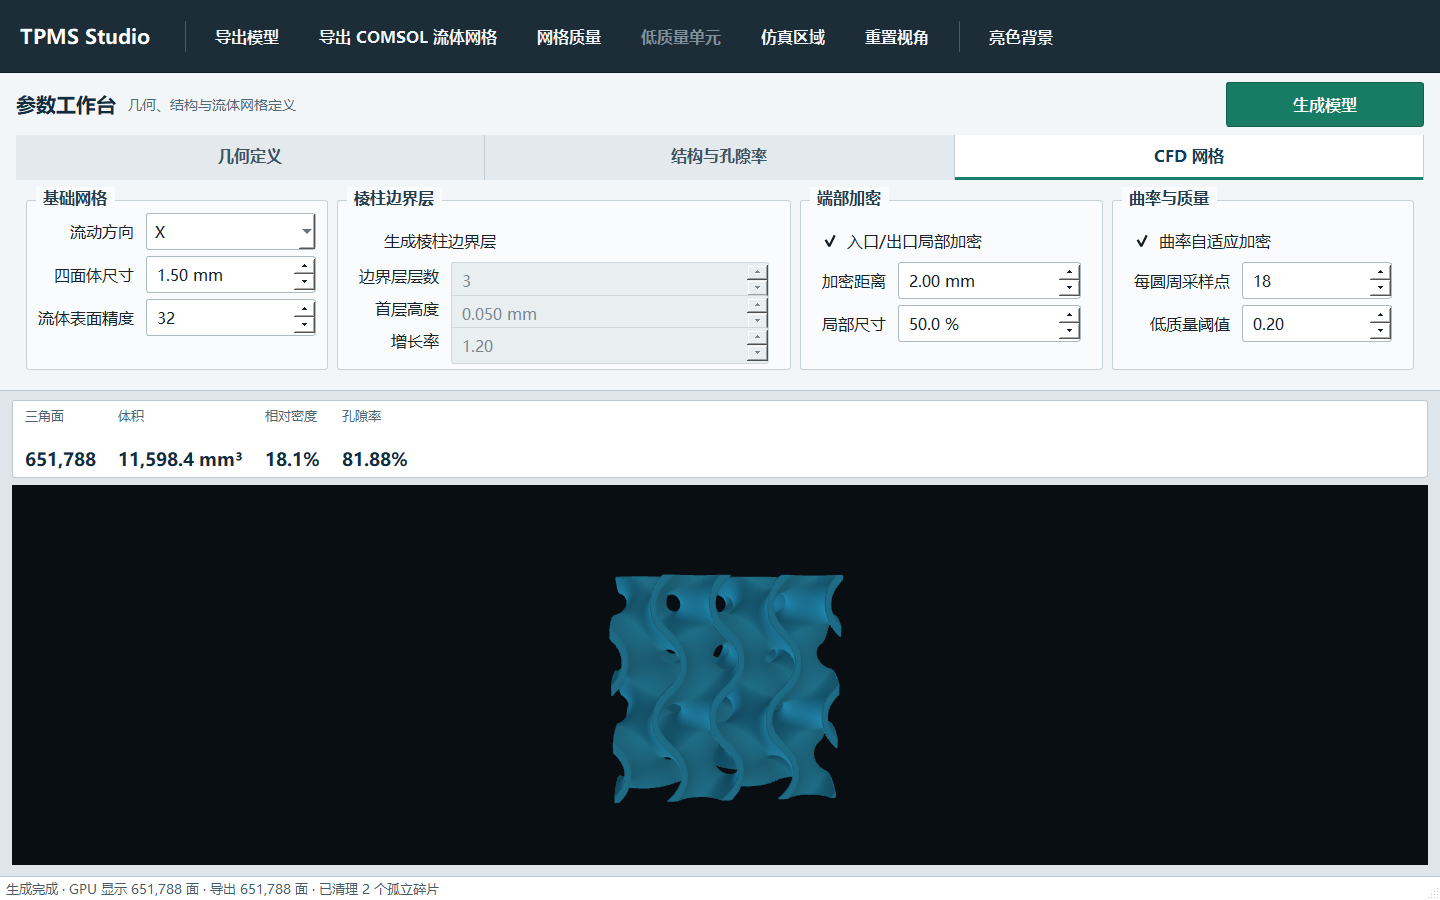
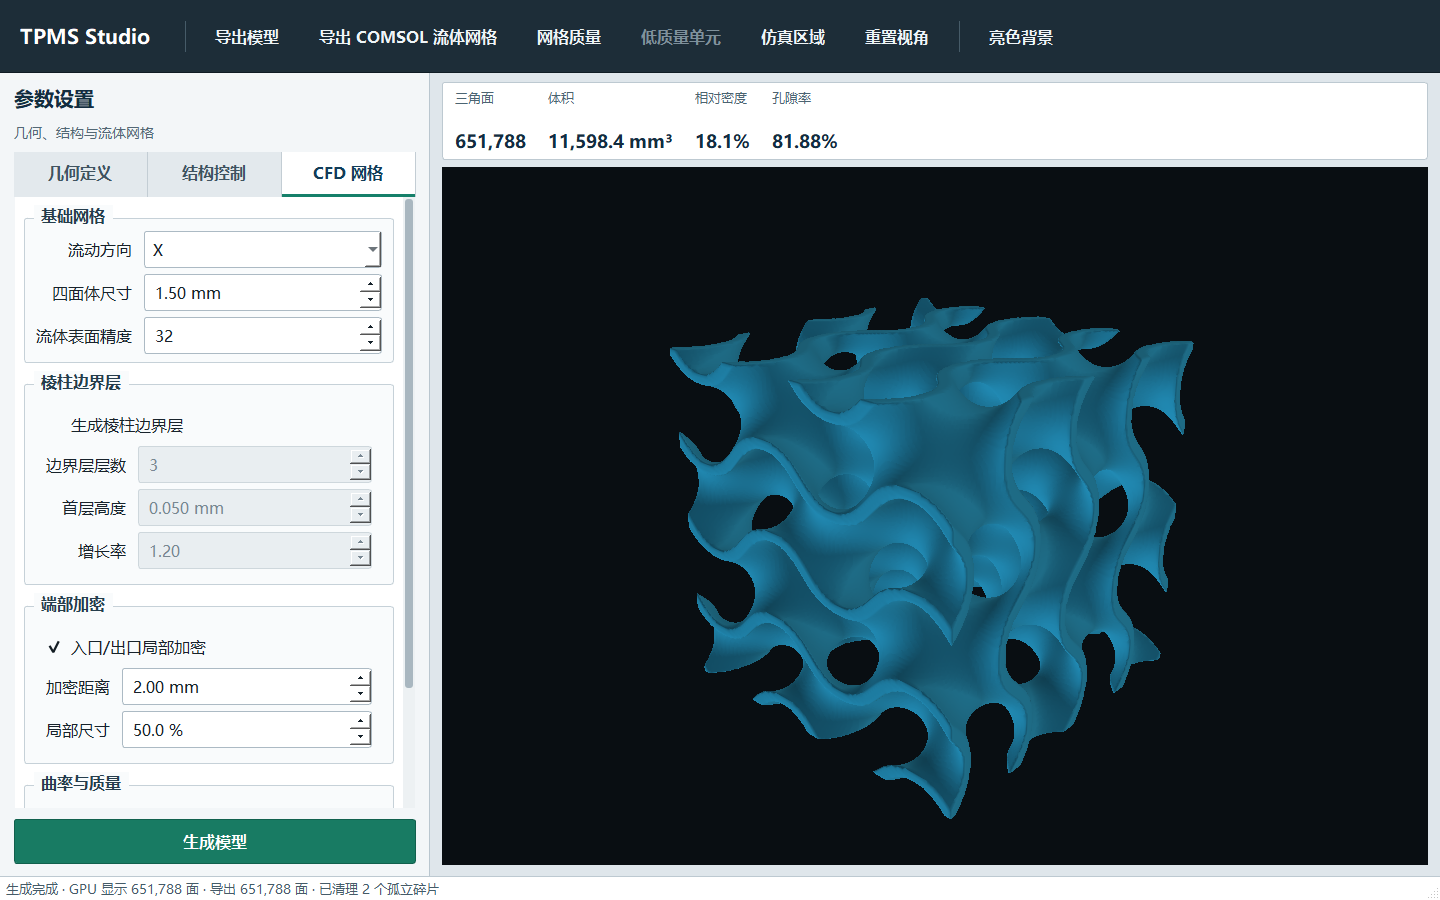
把参数界面放回了左边

diff --git a/app.py b/app.py
@@ -41,8 +41,10 @@ from PyQt5.QtWidgets import (
     QOpenGLWidget,
     QPushButton,
     QRadioButton,
+    QScrollArea,
     QSizePolicy,
     QSpinBox,
+    QSplitter,
     QStatusBar,
     QTabWidget,
     QToolBar,
@@ -109,35 +111,55 @@ QToolButton:checked { background: #e9f1f5; color: #153e59; border-color: #b6c8d3
 QToolButton:disabled { color: #7f919c; }
 QWidget#parameterDeck {
     background: #f3f6f8;
-    border-bottom: 1px solid #b9c6cf;
+    border-right: 1px solid #b9c6cf;
 }
 QLabel#panelTitle { color: #132d40; font-size: 20px; font-weight: 700; }
 QLabel#panelSubtitle { color: #536875; font-size: 14px; }
 QLabel#sectionTitle { color: #253d4c; font-size: 16px; font-weight: 700; }
+QScrollArea#parameterScroll {
+    background: #ffffff;
+    border: none;
+}
+QWidget#parameterPage { background: #ffffff; }
 QTabWidget#parameterTabs::pane {
     background: #ffffff;
     border: 1px solid #b9c6cf;
     top: -1px;
 }
-QTabBar::tab {
+QTabWidget#parameterTabs QTabBar::tab {
     background: #e3e9ed;
     color: #3f5360;
     border: none;
     border-right: 1px solid #c3cdd4;
     border-bottom: 3px solid transparent;
-    min-width: 150px;
+    min-width: 92px;
     min-height: 38px;
-    padding: 2px 18px;
+    padding: 2px 10px;
     font-size: 16px;
     font-weight: 600;
 }
-QTabBar::tab:selected {
+QTabWidget#parameterTabs QTabBar::tab:selected {
     background: #ffffff;
     color: #123d59;
     border-bottom: 3px solid #16806a;
     font-weight: 700;
 }
-QTabBar::tab:hover:!selected { background: #eef2f4; color: #203d50; }
+QTabWidget#parameterTabs QTabBar::tab:hover:!selected { background: #eef2f4; color: #203d50; }
+QScrollBar:vertical {
+    background: #edf1f3;
+    width: 12px;
+    margin: 0;
+}
+QScrollBar::handle:vertical {
+    background: #a9b7c0;
+    min-height: 36px;
+    border-radius: 3px;
+    margin: 2px;
+}
+QScrollBar::handle:vertical:hover { background: #8295a1; }
+QScrollBar::add-line:vertical, QScrollBar::sub-line:vertical { height: 0; }
+QScrollBar::add-page:vertical, QScrollBar::sub-page:vertical { background: transparent; }
+QSplitter::handle { background: #b9c6cf; width: 1px; }
 QGroupBox {
     background: #f9fbfc;
     border: 1px solid #c6d1d8;
@@ -212,6 +234,7 @@ QPushButton#generateButton {
 QPushButton#generateButton:hover { background: #126750; }
 QPushButton#generateButton:pressed { background: #0c503e; }
 QPushButton#generateButton:disabled { background: #aab6b1; color: #f3f5f4; border-color: #9da8a4; }
+QWidget#parameterDeck QPushButton#generateButton { min-width: 0; }
 QStatusBar { background: #ffffff; border-top: 1px solid #bdc9d1; color: #455b68; font-size: 13px; }
 """
 
@@ -760,6 +783,18 @@ class MainWindow(QMainWindow):
             grid.addWidget(field, 1, column)
         return grid
 
+    @staticmethod
+    def _scroll_page(content: QWidget) -> QScrollArea:
+        content.setObjectName("parameterPage")
+        scroll = QScrollArea()
+        scroll.setObjectName("parameterScroll")
+        scroll.setWidgetResizable(True)
+        scroll.setHorizontalScrollBarPolicy(Qt.ScrollBarAlwaysOff)
+        scroll.setVerticalScrollBarPolicy(Qt.ScrollBarAsNeeded)
+        scroll.setFrameShape(QFrame.NoFrame)
+        scroll.setWidget(content)
+        return scroll
+
     def _build_ui(self) -> None:
         central = QWidget()
         central.setObjectName("centralRoot")
@@ -768,48 +803,37 @@ class MainWindow(QMainWindow):
         root.setSpacing(0)
         self.setCentralWidget(central)
 
+        splitter = QSplitter(Qt.Horizontal)
+        splitter.setChildrenCollapsible(False)
+        root.addWidget(splitter, 1)
+
         parameter_deck = QWidget()
         parameter_deck.setObjectName("parameterDeck")
+        parameter_deck.setMinimumWidth(400)
+        parameter_deck.setMaximumWidth(540)
         deck_layout = QVBoxLayout(parameter_deck)
-        deck_layout.setContentsMargins(16, 9, 16, 12)
-        deck_layout.setSpacing(8)
+        deck_layout.setContentsMargins(14, 12, 14, 12)
+        deck_layout.setSpacing(10)
 
-        header = QHBoxLayout()
-        header.setSpacing(12)
-        heading = QHBoxLayout()
-        heading.setSpacing(12)
-        title = QLabel("参数工作台")
+        title = QLabel("参数设置")
         title.setObjectName("panelTitle")
-        subtitle = QLabel("几何、结构与流体网格定义")
+        subtitle = QLabel("几何、结构与流体网格")
         subtitle.setObjectName("panelSubtitle")
-        heading.addWidget(title, 0, Qt.AlignVCenter)
-        heading.addWidget(subtitle, 0, Qt.AlignVCenter)
-        header.addLayout(heading)
-        header.addStretch(1)
-        self.generate_button = QPushButton("生成模型")
-        self.generate_button.setObjectName("generateButton")
-        self.generate_button.setShortcut("Ctrl+Return")
-        self.generate_button.setToolTip("使用当前参数重新生成 TPMS 模型")
-        self.generate_button.setAccessibleName("生成 TPMS 模型")
-        self.generate_button.clicked.connect(self.generate)
-        header.addWidget(self.generate_button, 0, Qt.AlignVCenter)
-        deck_layout.addLayout(header)
+        deck_layout.addWidget(title)
+        deck_layout.addWidget(subtitle)
 
         self.parameter_tabs = QTabWidget()
         self.parameter_tabs.setObjectName("parameterTabs")
         self.parameter_tabs.setDocumentMode(True)
         self.parameter_tabs.tabBar().setExpanding(True)
-        self.parameter_tabs.setMinimumHeight(232)
-        self.parameter_tabs.setMaximumHeight(244)
-        self.parameter_tabs.setSizePolicy(QSizePolicy.Expanding, QSizePolicy.Fixed)
+        self.parameter_tabs.setSizePolicy(QSizePolicy.Expanding, QSizePolicy.Expanding)
 
         geometry_tab = QWidget()
-        geometry_layout = QHBoxLayout(geometry_tab)
-        geometry_layout.setContentsMargins(9, 7, 9, 8)
-        geometry_layout.setSpacing(9)
+        geometry_layout = QVBoxLayout(geometry_tab)
+        geometry_layout.setContentsMargins(9, 8, 9, 10)
+        geometry_layout.setSpacing(8)
 
         surface_group = QGroupBox("曲面与结构模式")
-        surface_group.setMinimumWidth(350)
         surface_form = self._form_layout()
         self.surface_combo = QComboBox()
         for surface_name in ("Gyroid", "Diamond", "Primitive", "I-WP", "Neovius"):
@@ -855,15 +879,16 @@ class MainWindow(QMainWindow):
             field.setAccessibleName(f"{axis} 方向周期数量")
         self.cell_group.setLayout(self._axis_grid(self.cell_fields))
 
-        geometry_layout.addWidget(surface_group, 4)
-        geometry_layout.addWidget(size_group, 3)
-        geometry_layout.addWidget(self.cell_group, 3)
-        self.parameter_tabs.addTab(geometry_tab, "几何定义")
+        geometry_layout.addWidget(surface_group)
+        geometry_layout.addWidget(size_group)
+        geometry_layout.addWidget(self.cell_group)
+        geometry_layout.addStretch(1)
+        self.parameter_tabs.addTab(self._scroll_page(geometry_tab), "几何定义")
 
         structure_tab = QWidget()
-        structure_layout = QHBoxLayout(structure_tab)
-        structure_layout.setContentsMargins(9, 7, 9, 8)
-        structure_layout.setSpacing(9)
+        structure_layout = QVBoxLayout(structure_tab)
+        structure_layout.setContentsMargins(9, 8, 9, 10)
+        structure_layout.setSpacing(8)
 
         structure_group = QGroupBox("结构参数")
         structure_form = self._form_layout()
@@ -898,14 +923,15 @@ class MainWindow(QMainWindow):
         porosity_layout.addLayout(porosity_form)
         porosity_layout.addStretch(1)
 
-        structure_layout.addWidget(structure_group, 2)
-        structure_layout.addWidget(porosity_group, 2)
-        self.parameter_tabs.addTab(structure_tab, "结构与孔隙率")
+        structure_layout.addWidget(structure_group)
+        structure_layout.addWidget(porosity_group)
+        structure_layout.addStretch(1)
+        self.parameter_tabs.addTab(self._scroll_page(structure_tab), "结构控制")
 
         cfd_tab = QWidget()
-        cfd_layout = QHBoxLayout(cfd_tab)
-        cfd_layout.setContentsMargins(9, 7, 9, 8)
-        cfd_layout.setSpacing(9)
+        cfd_layout = QVBoxLayout(cfd_tab)
+        cfd_layout.setContentsMargins(9, 8, 9, 10)
+        cfd_layout.setSpacing(8)
 
         cfd_base_group = QGroupBox("基础网格")
         cfd_form = self._form_layout()
@@ -988,13 +1014,22 @@ class MainWindow(QMainWindow):
         quality_layout.addLayout(quality_form)
         quality_layout.addStretch(1)
 
-        cfd_layout.addWidget(cfd_base_group, 2)
-        cfd_layout.addWidget(boundary_group, 3)
-        cfd_layout.addWidget(refinement_group, 2)
-        cfd_layout.addWidget(quality_group, 2)
-        self.parameter_tabs.addTab(cfd_tab, "CFD 网格")
-        deck_layout.addWidget(self.parameter_tabs)
-        root.addWidget(parameter_deck, 0)
+        cfd_layout.addWidget(cfd_base_group)
+        cfd_layout.addWidget(boundary_group)
+        cfd_layout.addWidget(refinement_group)
+        cfd_layout.addWidget(quality_group)
+        cfd_layout.addStretch(1)
+        self.parameter_tabs.addTab(self._scroll_page(cfd_tab), "CFD 网格")
+        deck_layout.addWidget(self.parameter_tabs, 1)
+
+        self.generate_button = QPushButton("生成模型")
+        self.generate_button.setObjectName("generateButton")
+        self.generate_button.setShortcut("Ctrl+Return")
+        self.generate_button.setToolTip("使用当前参数重新生成 TPMS 模型")
+        self.generate_button.setAccessibleName("生成 TPMS 模型")
+        self.generate_button.clicked.connect(self.generate)
+        deck_layout.addWidget(self.generate_button)
+        splitter.addWidget(parameter_deck)
 
         workspace = QWidget()
         workspace.setObjectName("workspace")
@@ -1021,7 +1056,10 @@ class MainWindow(QMainWindow):
         self.viewport = OpenGLMeshView()
         self.viewport.error.connect(self._viewport_error)
         workspace_layout.addWidget(self.viewport, 1)
-        root.addWidget(workspace, 1)
+        splitter.addWidget(workspace)
+        splitter.setStretchFactor(0, 0)
+        splitter.setStretchFactor(1, 1)
+        splitter.setSizes([430, 1010])
         self._update_mode_fields()
         self._update_formula_fields()
         self._update_cfd_fields()

diff --git a/DEVELOPMENT_LOG.md b/DEVELOPMENT_LOG.md
@@ -80,6 +80,7 @@ TPMS Studio 是本地运行的 TPMS 参数化建模工具。用户在 GUI 中输
 | R-031 | 使用 ui-ux-pro-max 重做参数界面 | 参数控制从左侧移到顶部，按几何定义、结构与孔隙率、CFD 网格分组；生成按钮固定右上，统计条和 OpenGL 视口改为全宽；更新当前界面截图 | 已完成 |
 | R-032 | 顶部区域字体太小 | 顶部工作区基础字号由 12 px 提升到 14 px，并同步放大工具栏、页签、分组标题、输入控件、主按钮和统计信息 | 已完成 |
 | R-033 | 顶部界面仍显小且不好看 | 使用 16 px 字号体系重做顶部视觉层级；采用高对比工具栏、全宽任务页签、紧凑对齐的参数组和更明确的主操作按钮 | 已完成 |
+| R-034 | 将参数修改界面从顶部改回左侧 | 使用可调宽度左右分割布局；几何、结构和 CFD 参数在左栏分页并独立滚动，生成按钮固定底部，右侧保留统计与 OpenGL 视口 | 已完成 |
 
 ## 4. 关键更新详情
 
@@ -144,6 +145,13 @@ TPMS Studio 是本地运行的 TPMS 参数化建模工具。用户在 GUI 中输
 - 输入控件补充清晰的焦点、悬停、按下和禁用状态；自定义公式模式继续自动隐藏不适用的周期数量参数。
 - 在 `1440×900` 默认窗口和 `1120×720` 最小窗口下完成原生 Qt 布局检查，几何与 CFD 参数组均无重叠或文字截断。
 
+### 4.9 左侧参数栏布局
+
+- 根据使用反馈将参数控制从顶部工作台移回左侧，使用 `QSplitter` 允许在 400–540 px 范围内调整参数栏宽度。
+- 左栏保留“几何定义”“结构控制”“CFD 网格”三个任务页签，每个页签使用独立 `QScrollArea`，避免整窗滚动影响模型观察。
+- “生成模型”固定在参数栏底部；CFD 参数滚动时主操作仍然可见。
+- 右侧继续显示模型统计条和 OpenGL 视口，建模、孔隙率、CFD 导出与诊断逻辑未改变。
+
 ## 5. 验证记录
 
 ### 2026-09-17
@@ -162,6 +170,12 @@ TPMS Studio 是本地运行的 TPMS 参数化建模工具。用户在 GUI 中输
 - BDF 回读：包含 `CTRIA3` 和 `CTETRA`，属性号与 MSH 一致。
 - 棱柱边界层实际导出：通过，BDF 回读同时包含 `CPENTA` 和 `CTETRA`。
 - 质量 VTU 回读：通过，四面体和棱柱都包含 `scaled_jacobian` 单元场。
+
+### 2026-09-18
+
+- 左侧参数栏原生 Qt 检查：`1120×720` 下几何参数无横向滚动或文字截断，CFD 长参数在左栏内部纵向滚动。
+- 交互状态检查：三个参数页签、可调分隔线、固定生成按钮和自定义公式周期分组隐藏均正常。
+- Python 语法检查通过；自动化测试 `22 passed`。
 
 ## 6. 技术决策
 

diff --git a/CHANGELOG.md b/CHANGELOG.md
@@ -21,6 +21,8 @@
 - 更新建模界面和 CFD 网格页签截图，验证 `1120×720` 最小窗口下控件无重叠、文字无截断。
 - 提高顶部工具栏、参数页签、表单标签、输入值和统计信息的字号与控件高度，改善高分辨率屏幕下的可读性。
 - 再次优化顶部工作区的视觉层级：正文采用 16 px 基准字号，工具栏改为高对比深色工作栏，页签横向铺满，尺寸控件顶部对齐，并移除结构页无意义留白。
+- 根据使用反馈将参数控制改回左侧可调栏，右侧恢复为独立的模型统计与 OpenGL 视口。
+- 左侧几何、结构和 CFD 页签分别使用纵向参数流；长内容仅在参数栏内部滚动，“生成模型”固定在栏底部始终可用。
 
 ## [0.2.0] - 2026-09-17
 
